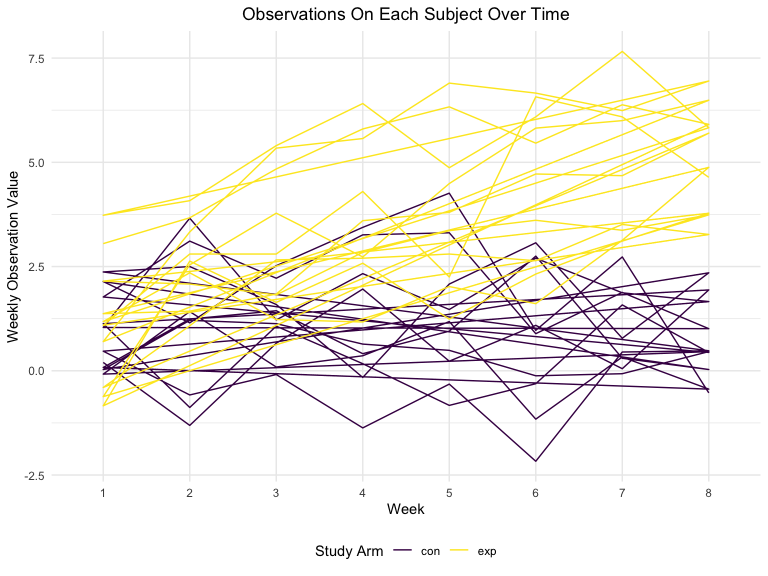
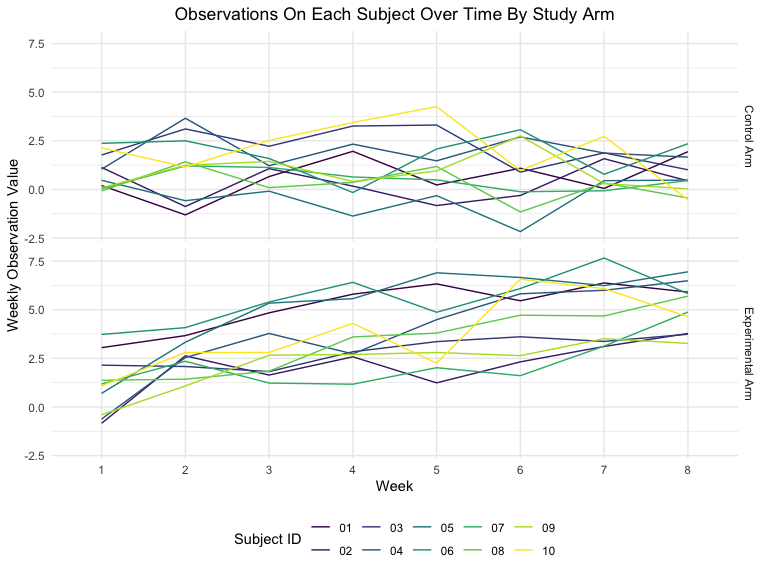
committing after cleaning code for problems 2 & 3: added custom labels to spaghetti plot for problem 2, added more to the question response, added responses about problem 3 plots, edited titles and axes for problem 3 plot 2.

diff --git a/p8105_hw5_at3346.md b/p8105_hw5_at3346.md
@@ -1,7 +1,7 @@
 p8105\_hw5\_at3346
 ================
 Ashley Tseng
-11/3/2019
+11/11/2019
 
 ## Problem 1
 
@@ -43,8 +43,8 @@ long_study = file_names %>%
   unnest() %>% 
   janitor::clean_names() %>% 
   select(-file_path) %>% 
-  separate(name, into = c("study_arm","subject_id", "file_type")) %>%
-  select(-file_type)
+  separate(name, into = c("study_arm","subject_id", "file_type")) %>% 
+  select(-file_type, -v1)
 ```
 
     ## Parsed with column specification:
@@ -274,20 +274,24 @@ long_study = file_names %>%
     ## )
 
 ``` r
+arm.labs = c("Control Arm", "Experimental Arm")
+names(arm.labs) = c("con", "exp")
+
 spaghetti = long_study %>% 
     pivot_longer(
     cols = starts_with("week_"),
     names_to = "week",
     names_prefix = "week_",
     values_to = "obs_value") %>% 
-  group_by(subject_id) %>% 
-  ggplot(aes(x = week, y = obs_value, color = study_arm, group = study_arm)) + 
+  group_by(study_arm) %>% 
+  ggplot(aes(x = week, y = obs_value, color = subject_id, group = subject_id)) + 
   geom_path() +
+  facet_grid("study_arm", labeller = labeller(study_arm = arm.labs)) +
   labs(
-    title = "Observations On Each Subject Over Time",
+    title = "Observations On Each Subject Over Time By Study Arm",
     x = "Week",
     y = "Weekly Observation Value",
-    color = "Study Arm") +
+    color = "Subject ID") +
   theme(plot.title = element_text(hjust = 0.5))
 
 spaghetti
@@ -295,14 +299,18 @@ spaghetti
 
 <img src="p8105_hw5_at3346_files/figure-gfm/prob2.plot1-1.png" width="90%" />
 
-***ADD MORE*** Based on visually inspecting the spaghetti plot, the
-weekly observation values for subjects in the experimental arm of the
-study are, on average, greater than the weekly observation values for
-the control arm of the study.
+Based on visually inspecting the spaghetti plot, the weekly observation
+values for subjects in the experimental arm of the study are, on
+average, higher than the weekly observation values for the control arm
+of the study. More specifically, by week 8, the weekly observation
+values of the control arm ranged from -0.53 to 2.35, while for the
+experimental arm the values ranged from 3.27 to 6.95.
 
 ## Problem 3
 
 ``` r
+set.seed(10)
+
 sim_regression = function(n = 30, beta0 = 2, beta1, var = 50) {
   
   sim_data = tibble(
@@ -324,7 +332,7 @@ sim_results =
 sim_results_power = 
   tibble(beta1_values = c(0, 1, 2, 3, 4, 5, 6)) %>% 
   mutate(
-    output_lists = map(.x = beta1_values, ~rerun(100, sim_regression(beta1 = .x))),
+    output_lists = map(.x = beta1_values, ~rerun(10000, sim_regression(beta1 = .x))),
     estimate_dfs = map(output_lists, bind_rows)) %>% 
   select(-output_lists) %>% 
   unnest(estimate_dfs) %>% 
@@ -352,6 +360,11 @@ sim_results_all
 
 <img src="p8105_hw5_at3346_files/figure-gfm/prob3.plot1-1.png" width="90%" />
 
+As effect size (the true value of β1) increases, power (the proportion
+of times H0 was rejected) increases as well. At β1=0, the power is
+0.0509, nearly at a value of 0. At β1=6, the power is 0.9823, nearly at
+a full value of 1.
+
 ``` r
 sim_results_esttrue =
   sim_results_power %>% 
@@ -363,16 +376,29 @@ sim_results_esttrue =
   geom_bar(stat = "identity", fill = "sea green") +
   geom_point(aes(x = beta1_values, y = beta1est_avg_sig)) +
   labs(
-    title = "True vs. Estimated Values of β1 & Average Estimate of β̂1 In Samples For Which H0 Was Rejected",
+    title = "True Values of β1 vs. Average Estimates of β̂1 & \n Average Estimates of β̂1 In Samples For Which H0 Was Rejected",
     x = "True Value of β1",
     y = "Average Estimate of β̂1") +
   theme(
     plot.title = element_text(hjust = 0.5),
     legend.position = "bottom") +
-  scale_y_continuous(breaks = seq(-1, 8, 1)) +
+  scale_y_continuous(breaks = seq(-1, 7, 1)) +
+  scale_x_continuous(breaks = seq(0, 6, 1)) +
   scale_fill_identity(name = 'Legend', guide = 'legend',labels = c('True vs. Estimated Values of β1')) 
 
 sim_results_esttrue
 ```
 
 <img src="p8105_hw5_at3346_files/figure-gfm/prob3.plot2-1.png" width="90%" />
+
+In this graph, the green bars show the average estimates of β̂1 and the
+black points show the average estimates of β̂1 only in samples for which
+the null was rejected. The true values of β1 are shown on the x-axis.
+The sample average of β̂1 across tests for which the null is rejected is
+not consistently equal to the true value of β1. For β1=4, 5, 6 the
+sample averages of β̂1 are approximately equal to the true value.
+However, for β1=0, 1, 2, 3 the sample averages of β̂1 are not equal to
+the true value. This is because larger effect sizes are easier to detect
+than smaller effect sizes and therefore easier to estimate. As a result,
+the sample averages of β̂1 for larger true values of β1 are more
+accurate.
